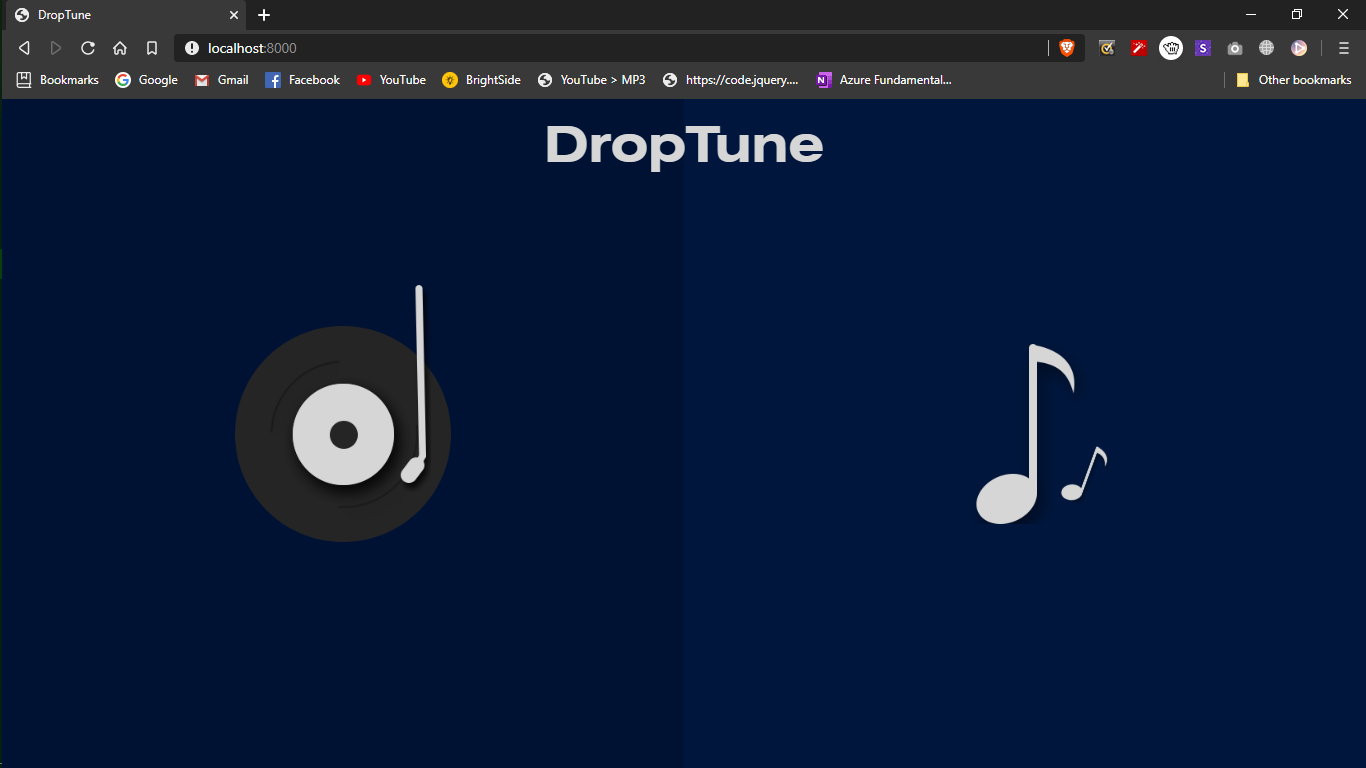
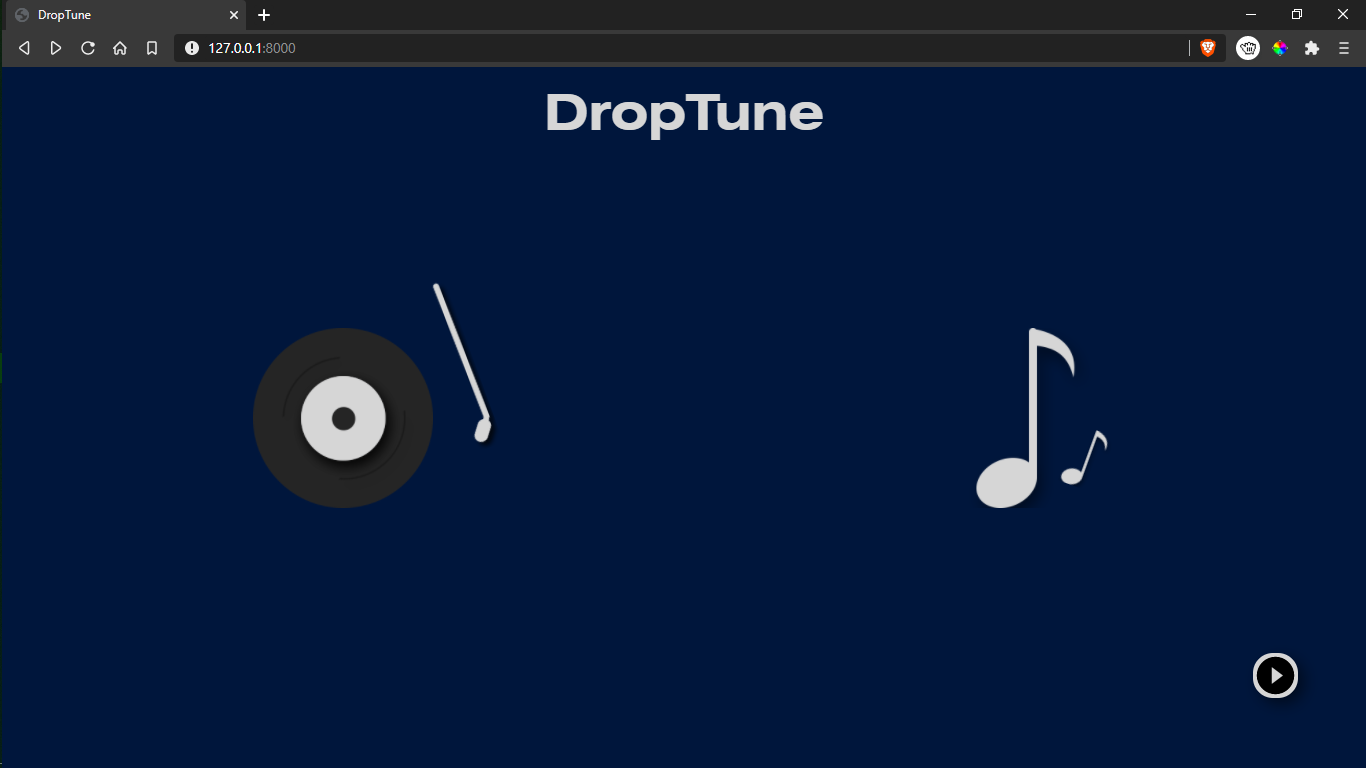
Fixed player. Updated ReadMe

diff --git a/dropplayer/templates/dropplayer/player.html b/dropplayer/templates/dropplayer/player.html
@@ -2,84 +2,69 @@
 {% block content %}
 {% load static %}
 
-<audio autoplay controls id="player"></audio>
-<button onclick="next()">next</button>
 <br>
-<div class="nowplaying" style="color: var(--acc);"></div>
+<br>
+<br>
+<br>
+<br>
+<audio autoplay controls id="player"></audio>
 <form action="/player" method="post" enctype="multipart/form-data" id='endconfirm'>
-{% csrf_token %}
+    {% csrf_token %}
     {{ endconfirm }}
 <input type="submit" value="Submit" id="ender" hidden>
+<button onclick="next()">Next</button>
 </form>
-
+<div class="nowplaying" style="color: var(--acc);"></div>
 
 <script>
-    window.onload = function(){
-        document.getElementById('player').play();
-        document.getElementById('id_complete').value = 'ended'
-        if (document.getElementById('player').getAttribute('src') === "undefined") {
-            alert("Drop a song from DJ mode from any device!");
-        window.location = '/';
-        }
-    }
-
-    var songs = [
+    //song array
+    var song_list = [
         {% for song in songlist %}
         "{{ song }}",
         {% endfor %}
-    ]
-    for (let i = 0; i < songs.length; i++) {
-        songs[i] = songs[i].replace(/&#x27;/g, "'");      
-    }
-    var i = 0;
-    var music_player = document.getElementById('player');
-    `function next(){
-        location.reload()
-        if (i === songs.length - 1) {
-            i=0;
-        }
-        else{
-            i++;
-        }
-        music_player.src = songs[i];
-    }`
-    if (music_player === null){
-        throw "Does not exist"
-    }
-    else{
-        music_player.src = songs[i];
-        document.getElementsByClassName('nowplaying')[0].innerHTML = songs[i].slice(25, );
-        music_player.addEventListener('ended', next, false);
-    }
-    var flag = 0;
-    function next(){
-        music_player.pause();
-        music_player.src = '';
-        if (i === songs.length - 1) {
-            i=0;
-        }
-        else{
-            i++;
-        }
-        music_player.src = songs[i];
-        console.log(i);
-        if (i!=0){
-            location.href = '/loading';
-            document.getElementById('endconfirm').submit();
-        }
-        else{
-            location.href = '/loading';
-            music_player.src = songs[i+1];
-            document.getElementById('endconfirm').submit();
-        }
-        
-        flag = 1;
-    }
-    if (flag == 1) {
+    ];
 
-        flag = 0;
-        location.reload();
+
+    for (let i = 0; i < song_list.length; i++) {
+        song_list[i] = song_list[i].replace(/&#x27;/g, "'");     
+    } //Unicode character correction for song names that have apostrophe in them.
+
+
+    var player = document.getElementById('player');
+
+    player.src = song_list[0]; //loading first song from song list
+
+    //Checking whether playlist is empty
+    if(song_list.length == 0){
+        alert("Playlist empty. Please drop a song from DJ mode.");
+        location.href = "/";
     }
+
+    //Now playing
+    document.getElementsByClassName('nowplaying')[0].innerHTML = song_list[i].slice(25, );
+
+
+    player.play();
+    //next function to send post request to backend and delete song
+    function next() {
+        player.src = ' ';
+        document.getElementById('ender').click();
+        location.href = "/loading"
+    }
+
+    //function for avoiding repeated post requests on reloads (sort of a noob method, ik xP)
+    var flag = 0;
+    function reloadprotection() {
+        if (flag == 0)
+        {location.href = "/loading";
+        flag = 1;}
+        else{
+            flag = 0;
+        }
+    }
+    document.addEventListener('reload', reloadprotection);
+
     
 </script>
+
 {% endblock %}

diff --git a/dropplayer/templates/base.html b/dropplayer/templates/base.html
@@ -7,15 +7,11 @@
     <link rel="stylesheet" href="{% static 'dropplayer/css/style.css' %}">
     <title>DropTune</title>
 </head>
+<!-- Web App creation and design by Sudev Suresh Sreedevi. Immense gratitude to all the contributors who
+helped make this possible. -->
 <body>
-    <div class="droptune">DropTune</div>
+    <div class="droptune" onclick="location.href = '/'" id="ascend">DropTune</div>
     {% block content %}
     {% endblock %}
 </body>
-<script>
-    var title = document.getElementsByClassName('droptune')[0];
-    window.onload = function(){
-        title.id = 'ascend';
-    }
-</script>
 </html>

diff --git a/dropplayer/templates/dropplayer/dj.html b/dropplayer/templates/dropplayer/dj.html
@@ -3,17 +3,6 @@
 {% load static %}
 
 <div class="djpage">
-    <!--<form action="/dj" method="post" enctype="multipart/form-data">
-        {% csrf_token %}
-        {{ musicform }}
-    <input type="submit" value="Submit" id="sub" onclick="refrlist()">
-    </form>
-
-    <div class="songlist" style="color: #fff;">
-        {% for song in songlist %}
-        {{song}} <br>
-        {% endfor %}
-    </div>-->
     <div class="left">
         <div class="modelabel">Up Next</div>
         <div class="songlist-container">

diff --git a/dropplayer/static/dropplayer/css/style.css b/dropplayer/static/dropplayer/css/style.css
@@ -57,6 +57,8 @@ body{
     font-weight: bold;
     font-size: 50px;
     opacity: 0;
+    user-select: none;
+    cursor: pointer;
 }
 /*MODE*/
 .mode{

diff --git a/dropplayer/tagextract.py b/dropplayer/tagextract.py
@@ -1,17 +1,18 @@
 from tinytag import TinyTag, TinyTagException
 from base64 import b64encode
 import os
-metadata = {
-    "title":"Untitled Track",
-    "artist":"Unnamed Artist",
-    "album":"Untitled Album"
-}
 with open('./static/dropplayer/images/albumartdefault.jpg', 'rb') as f:
     trackbin = f.read()
 def TagExtract(song):
+    metadata = {
+        "title":"Untitled Track",
+        "artist":"Unnamed Artist",
+        "album":"Untitled Album"
+    }
     os.chdir(os.path.dirname(os.path.abspath(__file__)))
     if song == None: 
         track_img = str(b64encode(trackbin))[2:-3]
+        return metadata, track_img
     else:
         track = TinyTag.get(song, image=True)
         track_img = track.get_image()

diff --git a/dropplayer/views.py b/dropplayer/views.py
@@ -30,8 +30,8 @@ def player(request):
     Renders the music player page
     """
     #list of the names of all the songs
-    song_list = get_song_list()
     if request.method == "POST":
+        song_list = get_song_list()
         form = songComplete(request.POST)
         if form.is_valid():
             print(request.POST['complete'])
@@ -43,6 +43,8 @@ def player(request):
             return render(request, 'dropplayer/player.html', {'songlist': song_list, 'endconfirm': form})
     else:
         form = songComplete()
+    song_list = get_song_list()
+    
     return render(request, 'dropplayer/player.html', {'songlist': song_list, 'endconfirm': form})
 
 def dj(request):

diff --git a/dropplayer/forms.py b/dropplayer/forms.py
@@ -16,4 +16,4 @@ class MusicUpload(forms.Form):
     newsong = forms.FileField(widget=forms.ClearableFileInput(attrs={'style':'color:white', 'accept':'audio/mpeg', 'hidden':True}), label="")
 
 class songComplete(forms.Form):
-    complete = forms.CharField(label='', widget=forms.TextInput(attrs={'hidden':''}))
+    complete = forms.CharField(label='', widget=forms.TextInput(attrs={'hidden':'', 'value':'ended'}))

diff --git a/README.md b/README.md
@@ -37,7 +37,7 @@ cd DropTune
 Then
 ### For Linux
 ```bash
-chmod +x ./install.sh
+chmod +x install.sh
 ./install.sh
 ./launch.sh
 ```
@@ -48,9 +48,8 @@ launch.bat
 ```
 Or double click on `install.bat` and then `launch.bat`
 
-If you know how to access your laptop/PC's IP address and connect to the localhost using a mobile or other devices connected to the same network, you could better use the player.
-
-More clear instructions on that part coming up.
+## Connecting other devices
+For connecting a mobile phone or other device, click on the small play button at the bottom right corner and scan the QR Code or enter the shown IP address on the other device.
 
 ---
 ---
@@ -62,10 +61,10 @@ If it still doesn't, close the terminal that opened when you launched the `launc
 Open a fresh terminal in the folder and type
 ##### For Linux
 ```
-python3 manage.py runserver
+python3 manage.py runserver 6969
 ```
 ##### For Windows
 ```
-python manage.py runserver
+python manage.py runserver 6969
 ```
 And then try the URL that comes after it loads.
